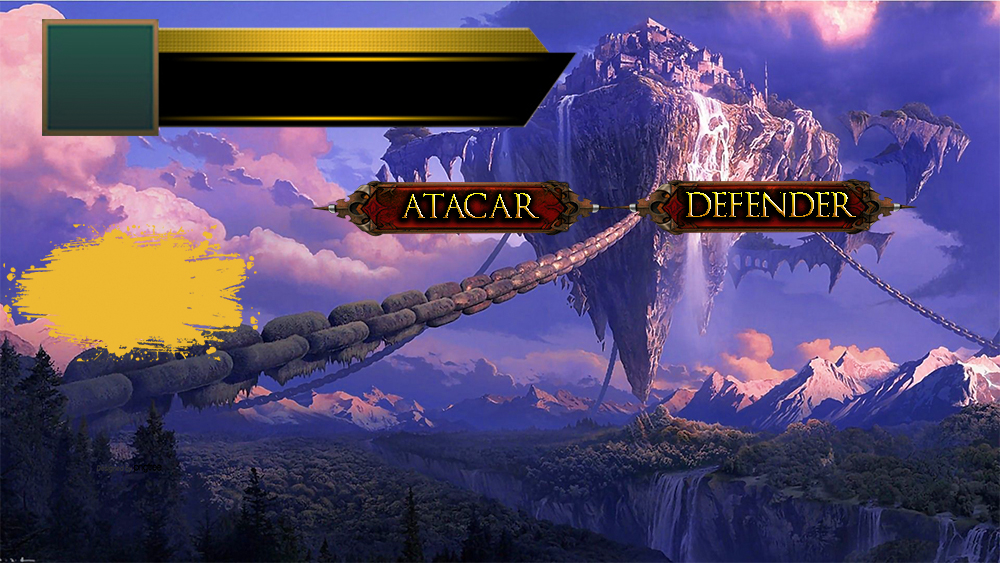
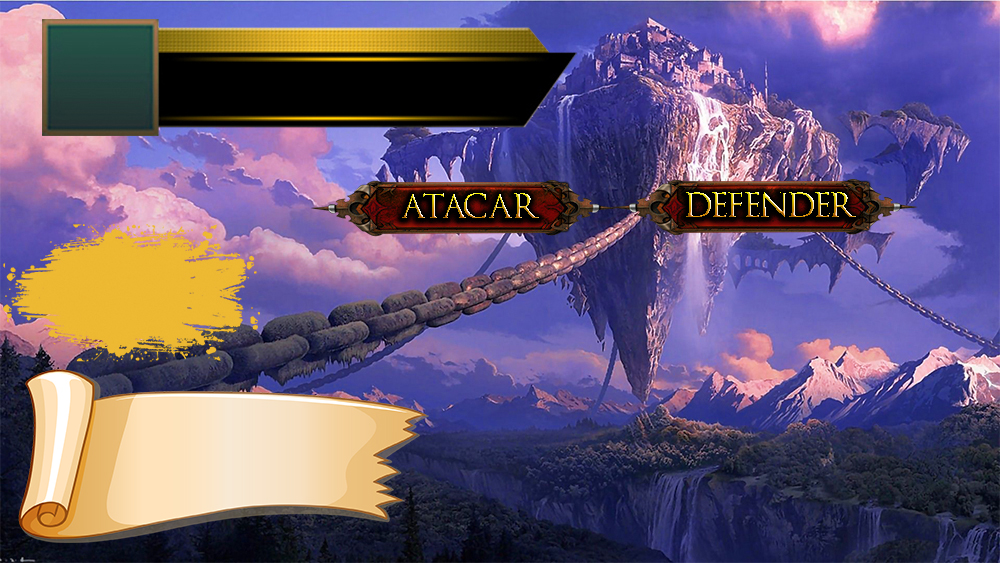
accion planetas relativo y bonito

Changed region(s): [[0.0, 0.6341, 0.434, 0.9663]]

diff --git a/src/main/java/swing/AccionPlanetas.java b/src/main/java/swing/AccionPlanetas.java
@@ -7,6 +7,7 @@ package swing;
 
 
 import coldware.Planeta;
+import java.awt.Color;
 import java.awt.Dimension;
 import java.awt.Toolkit;
 import java.util.List;
@@ -39,6 +40,11 @@ public class AccionPlanetas extends javax.swing.JDialog {
         this.jugador = i;
         this.planetas = planetas;
         initComponents();
+        anadirImagenes();
+         jTextArea1.setOpaque(true);
+         jTextArea1.setBackground(new Color(0,0,0,0));
+         jTextArea1.setBorder(null);
+         jScrollPane1.setBorder(null);
         jSpinnerAtacar.setModel(new SpinnerNumberModel(0,0,planetas.get(jugador).getMisiles_ronda(),1));
         jSpinnerDefender.setModel(new SpinnerNumberModel(0,0,planetas.get(jugador).getMisiles_ronda()/2,1));
        
@@ -95,9 +101,12 @@ public class AccionPlanetas extends javax.swing.JDialog {
 
         jTextArea1.setColumns(20);
         jTextArea1.setRows(5);
+        jTextArea1.setBorder(null);
+        jTextArea1.setDisabledTextColor(new java.awt.Color(0, 0, 0));
+        jTextArea1.setEnabled(false);
         jScrollPane1.setViewportView(jTextArea1);
 
-        getContentPane().add(jScrollPane1, new org.netbeans.lib.awtextra.AbsoluteConstraints(10, 350, 520, 150));
+        getContentPane().add(jScrollPane1, new org.netbeans.lib.awtextra.AbsoluteConstraints(120, 400, 300, 100));
 
         jLabel3.setFont(new java.awt.Font("Tahoma", 1, 14)); // NOI18N
         jLabel3.setForeground(new java.awt.Color(255, 255, 255));
@@ -136,6 +145,7 @@ public class AccionPlanetas extends javax.swing.JDialog {
         });
         getContentPane().add(jComboBoxEquipos, new org.netbeans.lib.awtextra.AbsoluteConstraints(400, 260, 150, -1));
 
+        jButtonEjecutar.setIcon(new javax.swing.ImageIcon("C:\\Users\\DAW2\\Desktop\\ColdWarSwingBo\\src\\main\\java\\img\\EJECUTAR.png")); // NOI18N
         jButtonEjecutar.setBorder(null);
         jButtonEjecutar.setBorderPainted(false);
         jButtonEjecutar.setContentAreaFilled(false);
@@ -163,7 +173,9 @@ public class AccionPlanetas extends javax.swing.JDialog {
         jSpinnerAtacar.setModel(new javax.swing.SpinnerListModel(new String[] {"empty"}));
         getContentPane().add(jSpinnerAtacar, new org.netbeans.lib.awtextra.AbsoluteConstraints(490, 310, 60, 30));
         getContentPane().add(jSpinnerDefender, new org.netbeans.lib.awtextra.AbsoluteConstraints(820, 270, 50, 30));
-        getContentPane().add(jLabel1, new org.netbeans.lib.awtextra.AbsoluteConstraints(-90, 80, 1000, 570));
+
+        jLabel1.setIcon(new javax.swing.ImageIcon("C:\\Users\\DAW2\\Desktop\\ColdWarSwingBo\\src\\main\\java\\img\\fondoaccionplanetas2.jpg")); // NOI18N
+        getContentPane().add(jLabel1, new org.netbeans.lib.awtextra.AbsoluteConstraints(0, 0, 1000, 560));
 
         pack();
     }// </editor-fold>//GEN-END:initComponents
@@ -324,6 +336,10 @@ public class AccionPlanetas extends javax.swing.JDialog {
     }
 
     private void anadirImagenes() {
+		
+		  jButtonEjecutar.setIcon(new javax.swing.ImageIcon("src\\main\\java\\img\\EJECUTAR.png")); // NOI18N
+		  
+		  jLabel1.setIcon(new javax.swing.ImageIcon("src\\main\\java\\img\\fondoaccionplanetas2.jpg")); // NOI18N
         
         
         
